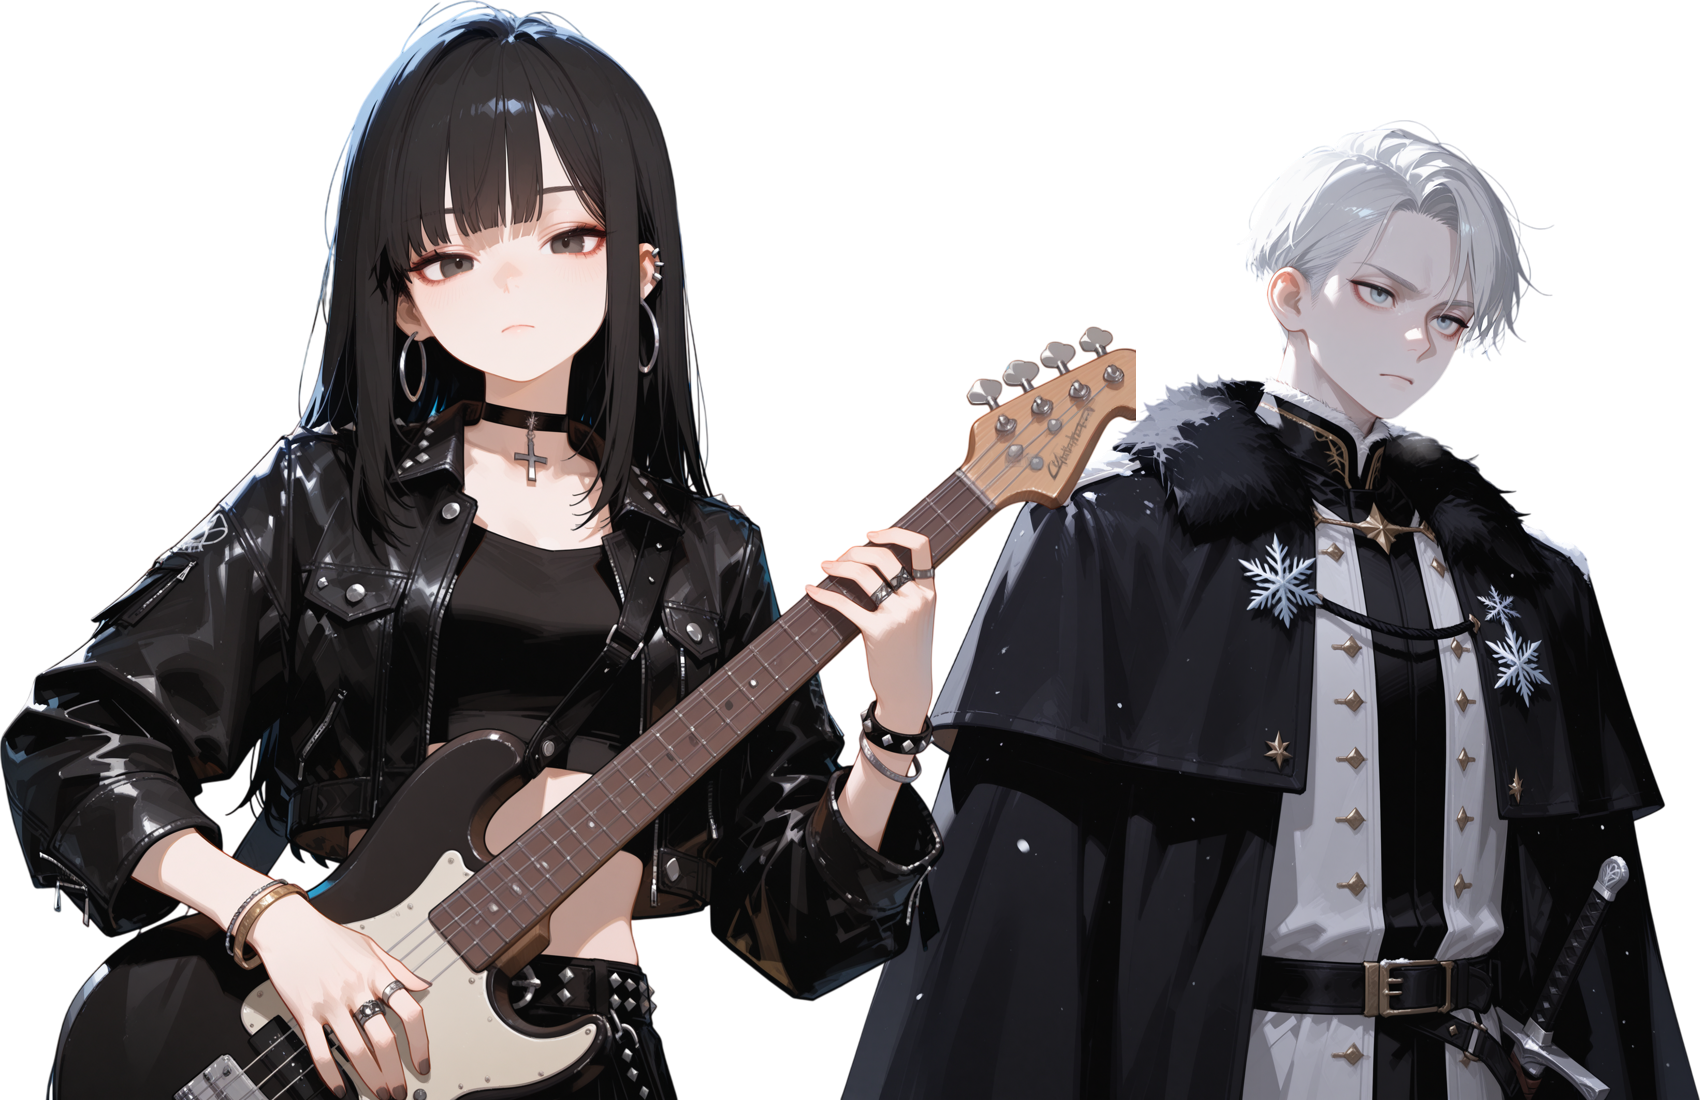
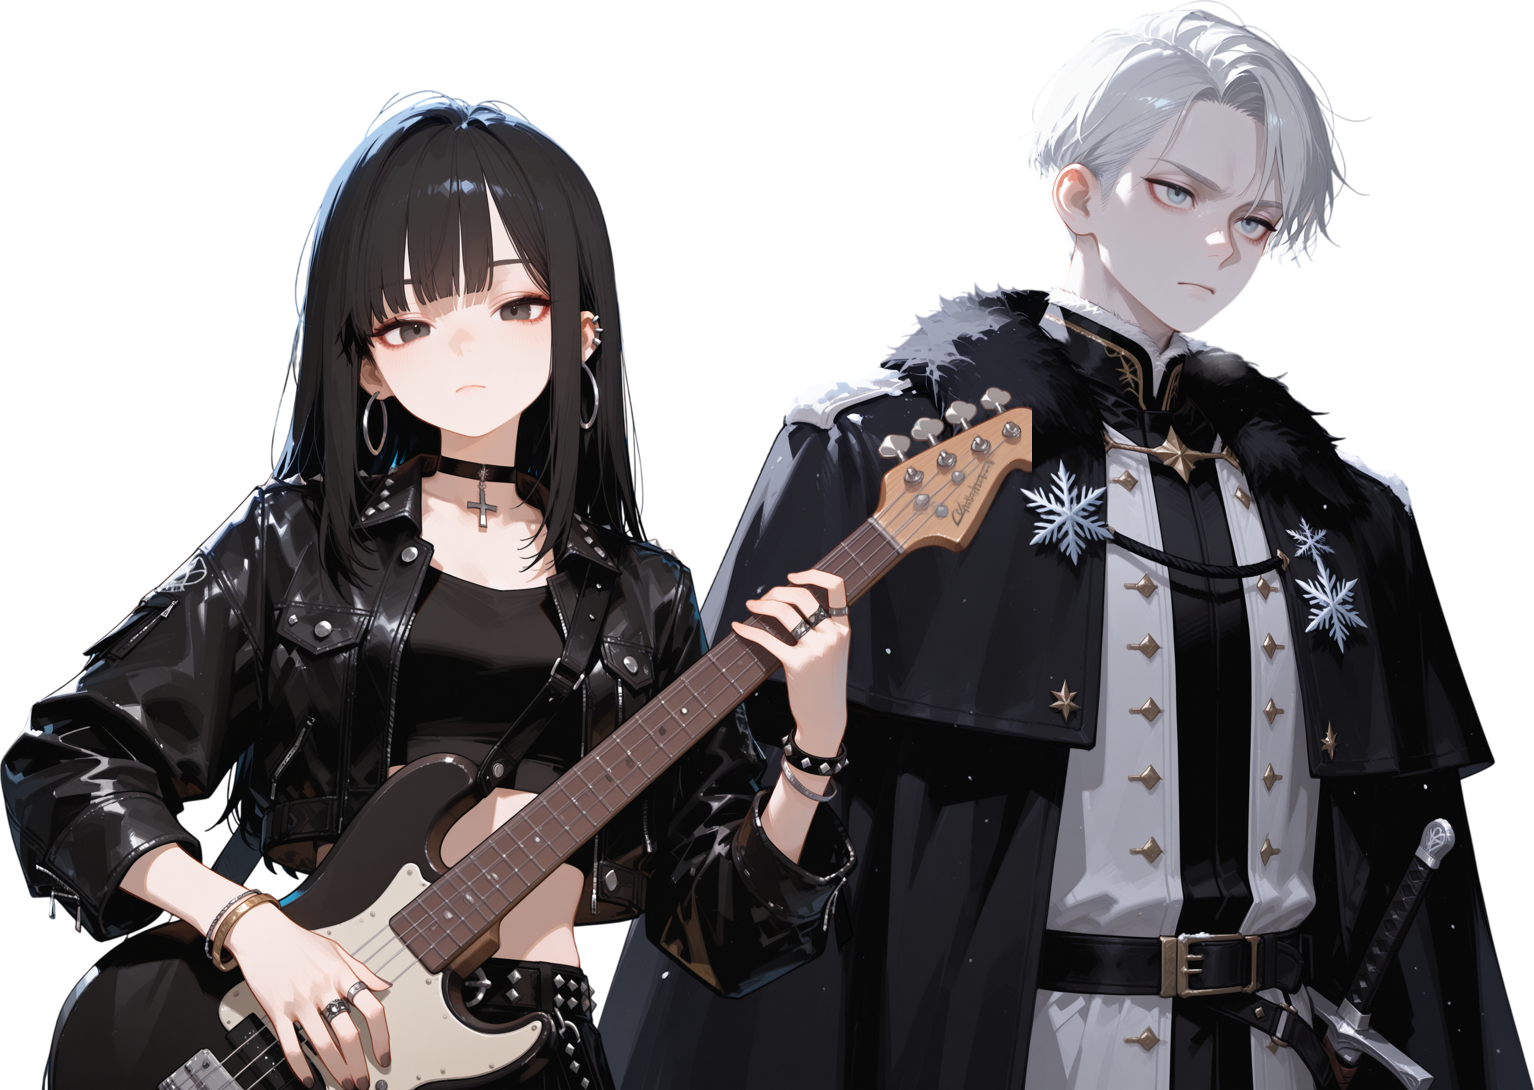
hero 듀오 합성 재조정: 레퍼런스 기준 두 캐릭터 더 가깝게·에른하르트 약간 크게(비율 1.41), 종횡비 힌트 갱신

diff --git a/en/index.html b/en/index.html
@@ -213,7 +213,7 @@
   </div>
   <div class="hero-right" aria-hidden="true">
     <div class="cast">
-      <img class="cast-duo" src="/assets/personas/duo.png" alt="" loading="eager" width="1700" height="1100">
+      <img class="cast-duo" src="/assets/personas/duo.png" alt="" loading="eager" width="1534" height="1090">
     </div>
   </div>
 </section>

diff --git a/index.html b/index.html
@@ -495,7 +495,7 @@
   </div>
   <div class="hero-right" aria-hidden="true">
     <div class="cast">
-      <img class="cast-duo" src="assets/personas/duo.png" alt="" loading="eager" width="1700" height="1100">
+      <img class="cast-duo" src="assets/personas/duo.png" alt="" loading="eager" width="1534" height="1090">
     </div>
   </div>
 </section>

diff --git a/ja/index.html b/ja/index.html
@@ -216,7 +216,7 @@
   </div>
   <div class="hero-right" aria-hidden="true">
     <div class="cast">
-      <img class="cast-duo" src="/assets/personas/duo.png" alt="" loading="eager" width="1700" height="1100">
+      <img class="cast-duo" src="/assets/personas/duo.png" alt="" loading="eager" width="1534" height="1090">
     </div>
   </div>
 </section>